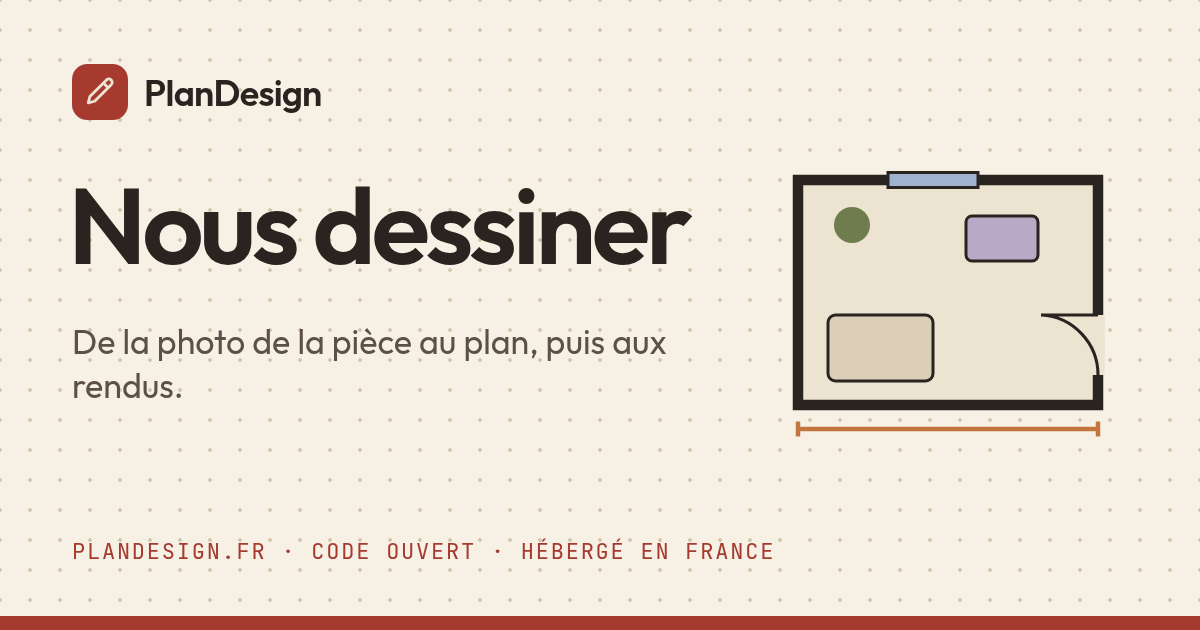
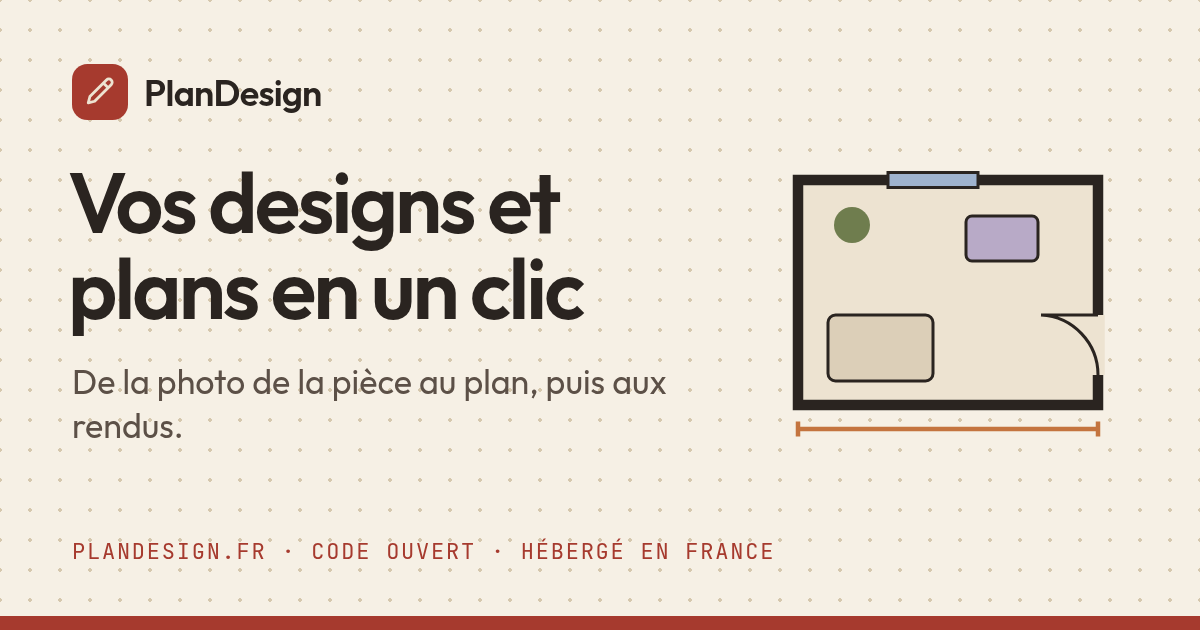
Site public : titre « Vos designs et plans en un clic » (h1, title, Open Graph, Twitter, og.png), plus aucune mention de gratuité (mention du formulaire, JSON-LD sans offers ni isAccessibleForFree), « tableau » remplacé par « espace de travail » dans tout le texte visible (« Ouvrir mon espace ») ; h

Changed region(s): [[0.0617, 0.2714, 0.5858, 0.6333], [0.0617, 0.6635, 0.1542, 0.6937]]

diff --git a/apps/site/src/styles/global.css b/apps/site/src/styles/global.css
@@ -315,8 +315,11 @@ p {
 
 .hero h1 {
   text-align: center;
-  font-size: clamp(3rem, 9vw, 6rem);
+  font-size: clamp(2.5rem, 10.5vw, 5.5rem);
   letter-spacing: -0.035em;
+  max-width: 13em;
+  margin: 0 auto;
+  text-wrap: balance;
 }
 
 .hero .lead {
